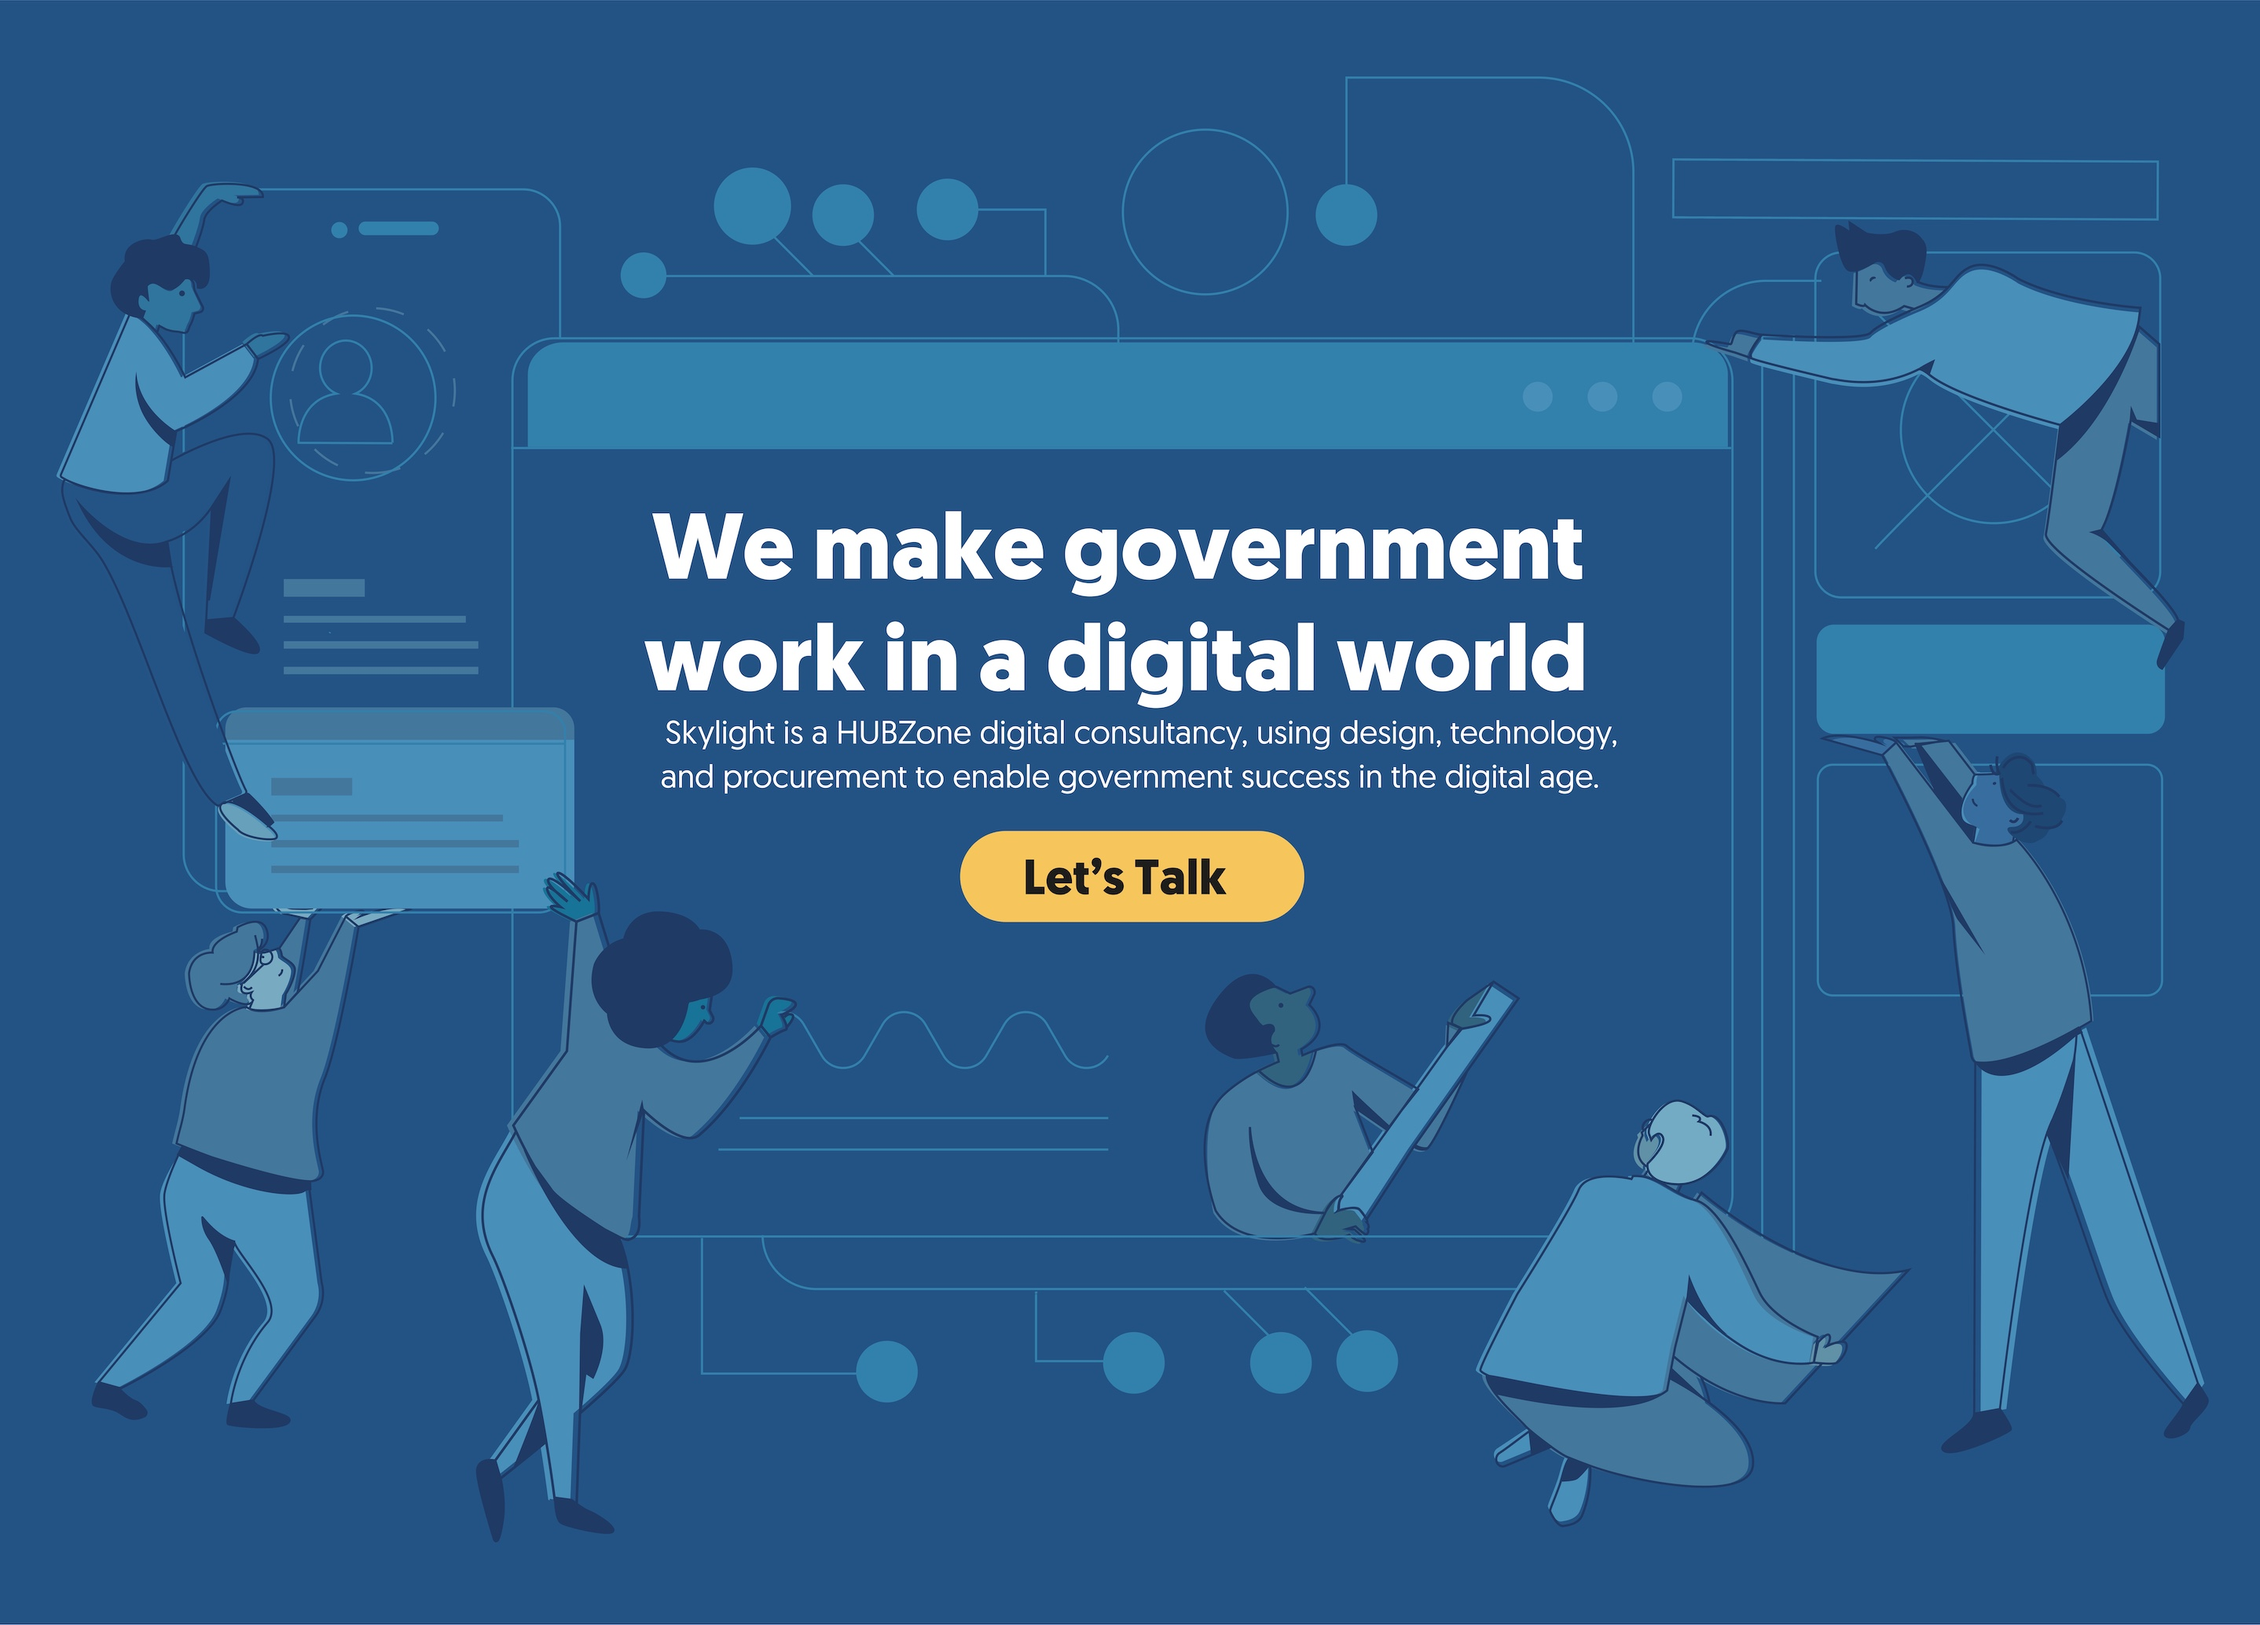
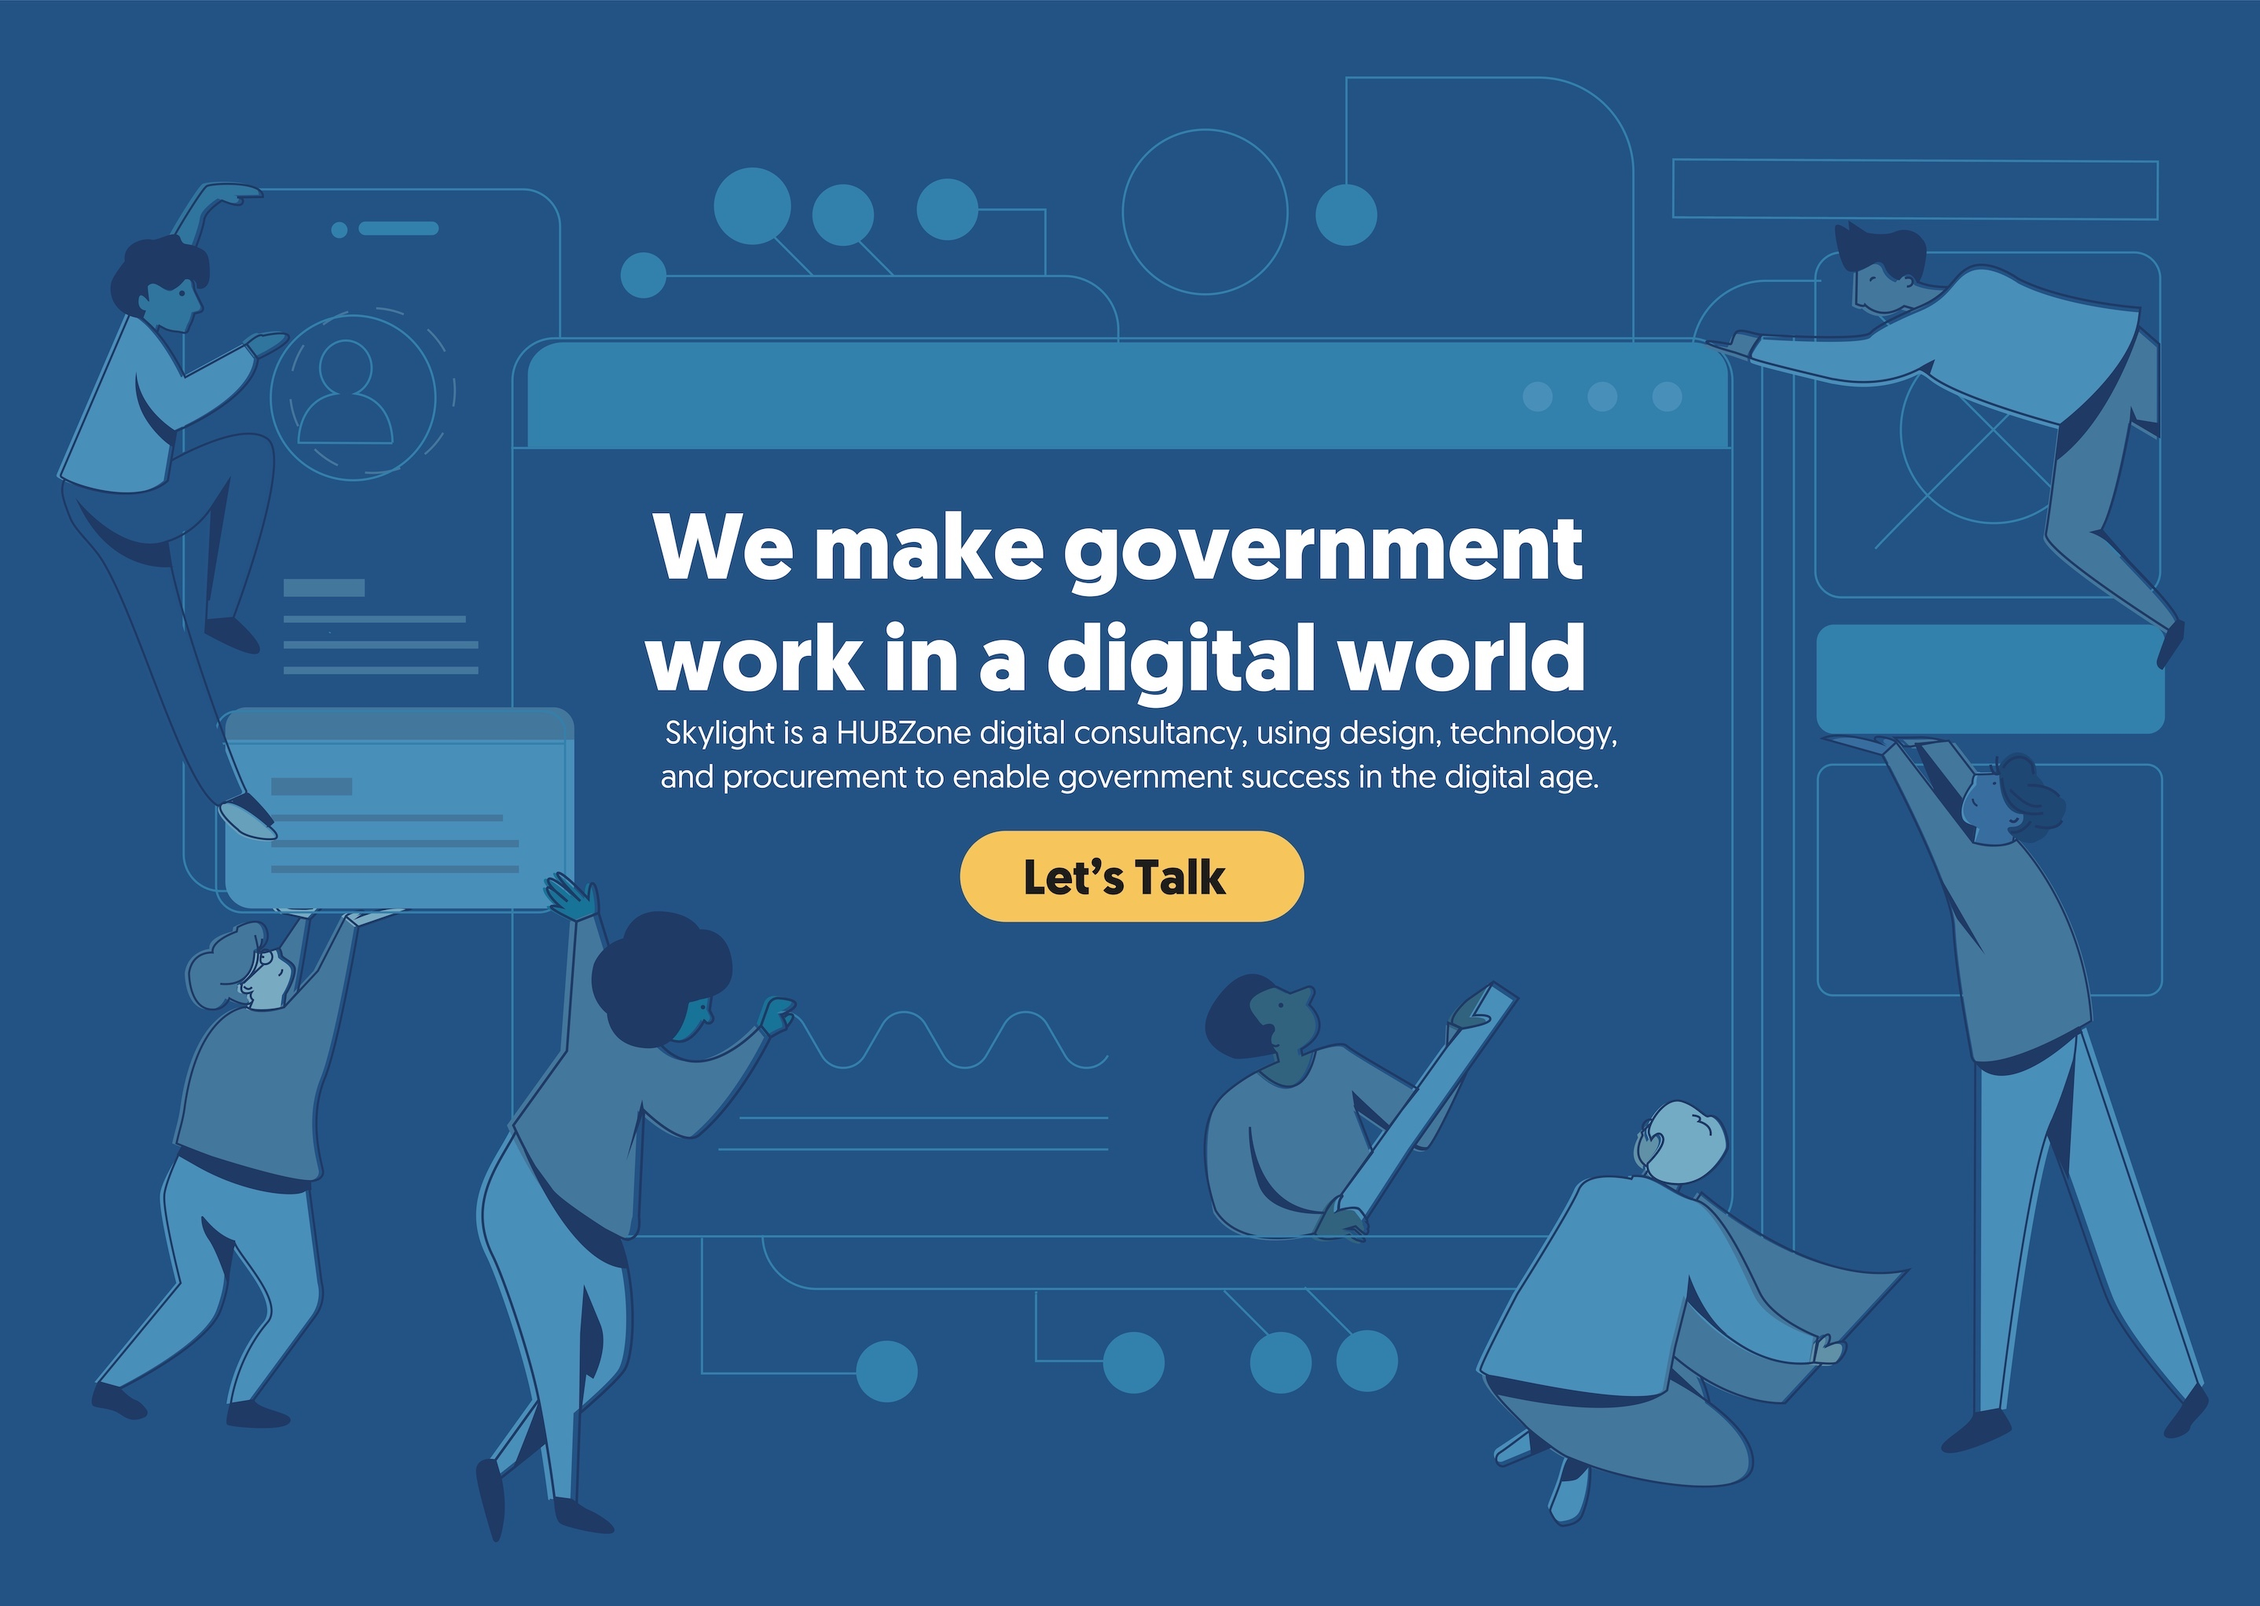
Update hero

diff --git a/_sass/pages/_landing.scss b/_sass/pages/_landing.scss
@@ -16,7 +16,7 @@
   //   url('../img/hero-2.jpg');
   background-image: url('../img/hero-1e.jpg');
   background-color: $brand-primary;
-  background-size: 90%;
+  background-size: 85%;
   background-position: center top;
   background-repeat: no-repeat;
   padding-bottom: 56.25%;
